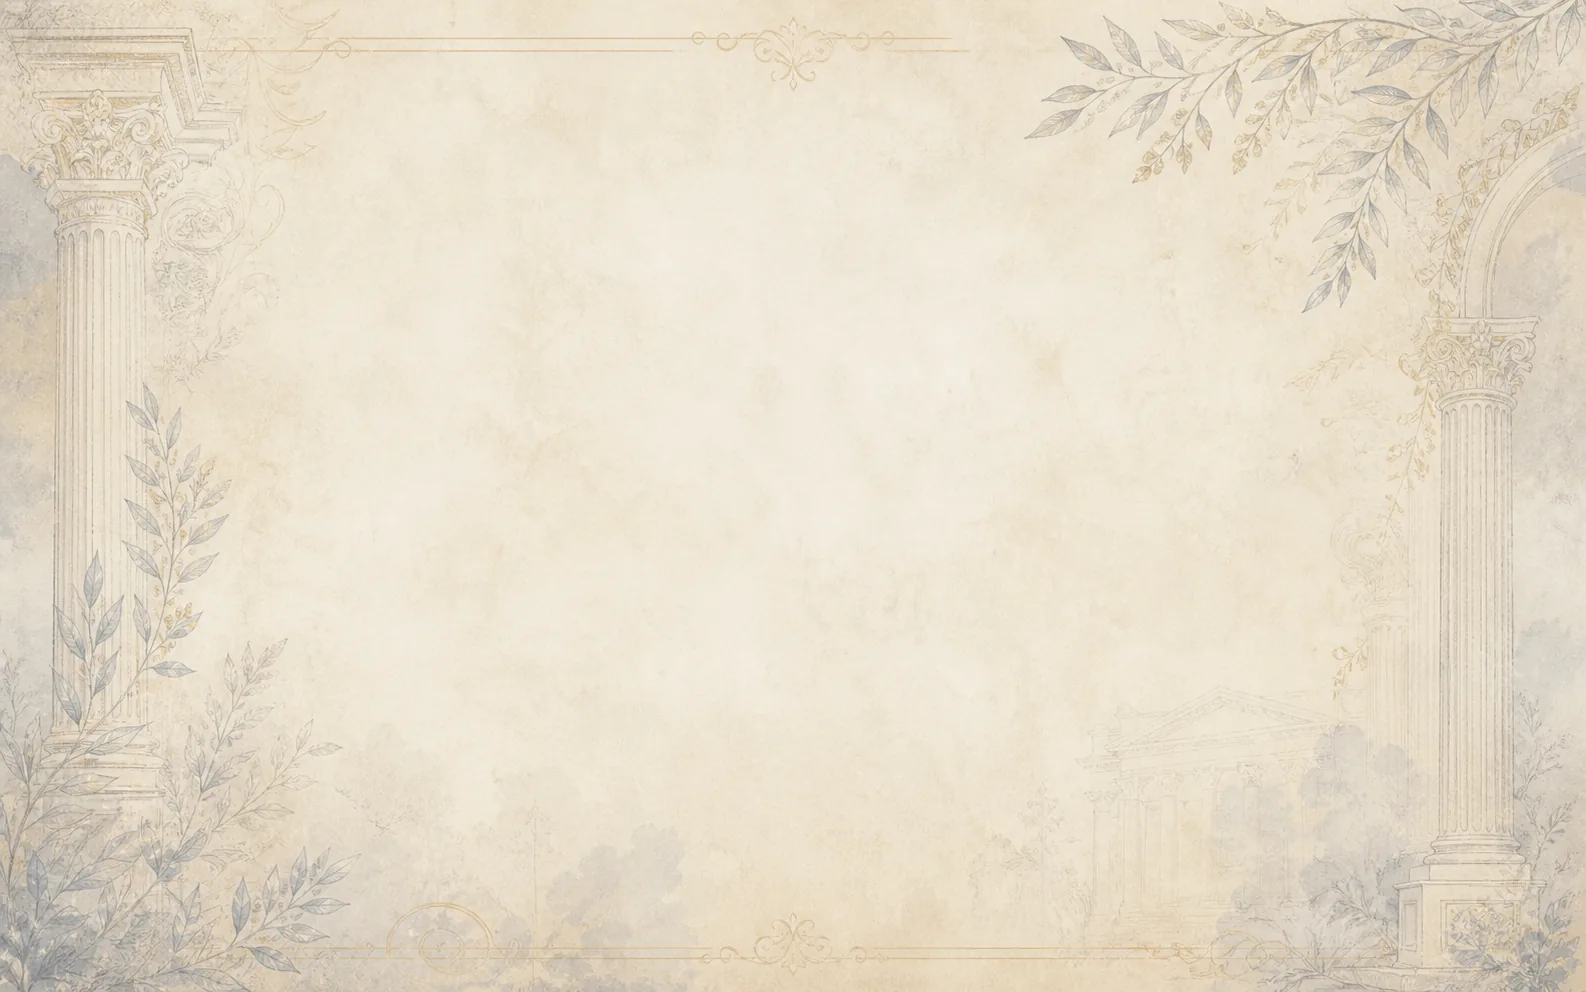
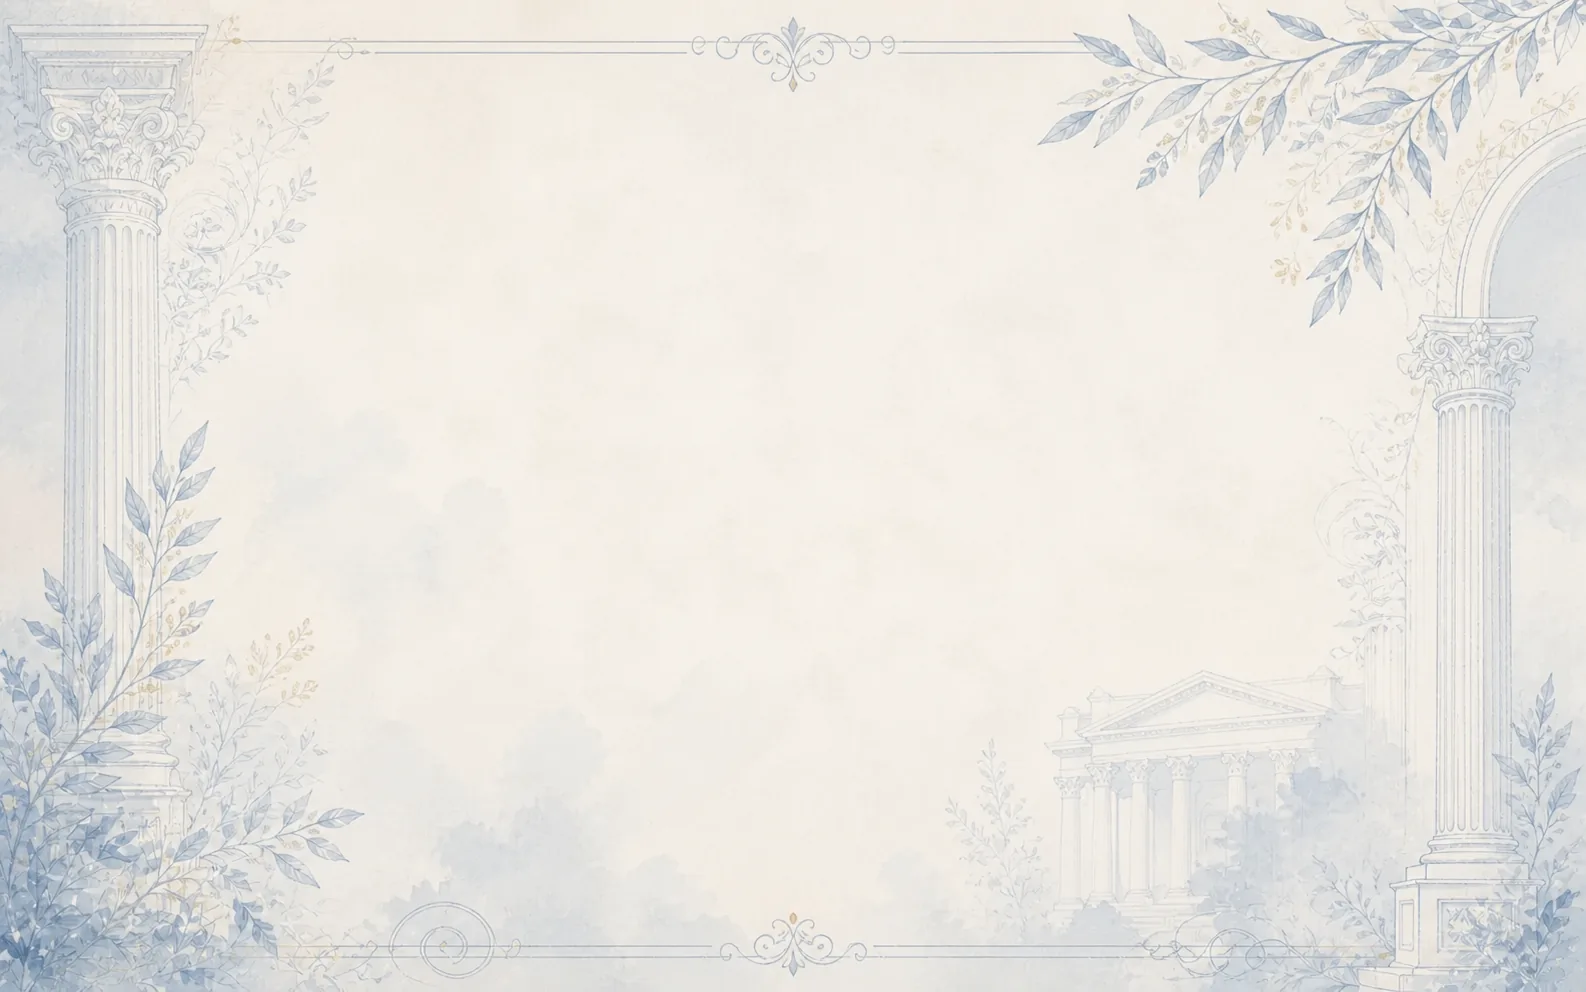
Shift ornate background toward light blue

diff --git a/lodge-meetings.html b/lodge-meetings.html
@@ -32,7 +32,7 @@
     <meta property="og:site_name" content="The Surrey 1837 Club" />
     <meta name="twitter:card" content="summary" />
     <title>Lodge Meeting Calendar | The Surrey 1837 Club</title>
-    <link rel="stylesheet" href="styles.css?v=ornate-background" />
+    <link rel="stylesheet" href="styles.css?v=ornate-light-blue" />
     <script src="auth.js?v=login-gate"></script>
     <script src="analytics.js?v=stats" defer></script>
     <script src="motion.js?v=professional-polish" defer></script>

diff --git a/social-events.html b/social-events.html
@@ -32,7 +32,7 @@
     <meta property="og:site_name" content="The Surrey 1837 Club" />
     <meta name="twitter:card" content="summary" />
     <title>Social Events Calendar | The Surrey 1837 Club</title>
-    <link rel="stylesheet" href="styles.css?v=ornate-background" />
+    <link rel="stylesheet" href="styles.css?v=ornate-light-blue" />
     <script src="auth.js?v=login-gate"></script>
     <script src="analytics.js?v=stats" defer></script>
     <script src="motion.js?v=professional-polish" defer></script>

diff --git a/join-the-community.html b/join-the-community.html
@@ -32,7 +32,7 @@
     <meta property="og:site_name" content="The Surrey 1837 Club" />
     <meta name="twitter:card" content="summary" />
     <title>Join the Community | The Surrey 1837 Club</title>
-    <link rel="stylesheet" href="styles.css?v=ornate-background" />
+    <link rel="stylesheet" href="styles.css?v=ornate-light-blue" />
     <script src="auth.js?v=login-gate"></script>
     <script src="analytics.js?v=stats" defer></script>
     <script src="motion.js?v=professional-polish" defer></script>

diff --git a/index.html b/index.html
@@ -38,7 +38,7 @@
     />
     <meta name="twitter:image" content="https://1837-club.com/assets/surrey-1837-club-home.png" />
     <title>The Surrey 1837 Club | Surrey Light Blues Freemasons</title>
-    <link rel="stylesheet" href="styles.css?v=ornate-background" />
+    <link rel="stylesheet" href="styles.css?v=ornate-light-blue" />
     <script src="auth.js?v=login-gate"></script>
     <script src="analytics.js?v=stats" defer></script>
     <script src="motion.js?v=professional-polish" defer></script>

diff --git a/stats.html b/stats.html
@@ -17,7 +17,7 @@
     <link rel="apple-touch-icon" sizes="180x180" href="apple-touch-icon.png" />
     <link rel="manifest" href="site.webmanifest" />
     <title>1837 Club Website Stats</title>
-    <link rel="stylesheet" href="styles.css?v=ornate-background" />
+    <link rel="stylesheet" href="styles.css?v=ornate-light-blue" />
     <script src="auth.js?v=login-gate"></script>
     <script src="motion.js?v=professional-polish" defer></script>
   </head>

diff --git a/login.html b/login.html
@@ -17,7 +17,7 @@
     <link rel="apple-touch-icon" sizes="180x180" href="apple-touch-icon.png" />
     <link rel="manifest" href="site.webmanifest" />
     <title>1837 Club Login</title>
-    <link rel="stylesheet" href="styles.css?v=ornate-background" />
+    <link rel="stylesheet" href="styles.css?v=ornate-light-blue" />
     <script src="analytics.js?v=stats" defer></script>
     <script src="motion.js?v=professional-polish" defer></script>
   </head>
